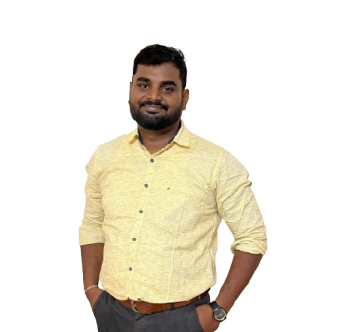
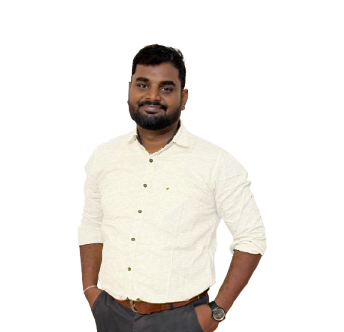
changes for latest

diff --git a/app/components/HeroSection.tsx b/app/components/HeroSection.tsx
@@ -1,62 +1,82 @@
 import Image from "next/image";
 import Button from "./Button";
+import Header from "./Header";
 function HeroSection() {
   return (
-    <div className="bg-linear-[310deg,var(--color-hero-from)_19%,var(--color-hero-to)_82%] dark:bg-none flex flex-col-reverse md:flex-row h-[var(--hero-section)] px-10 md:px-20 py-10 md:py-14 gap-10">
-      <div className="md:flex-1">
-        <div className="flex  flex-col justify-end h-full md:py-[55px] font-(family-name:--font-raleway) gap-1">
-          <h2 className="text-3xl font-semibold text-white">Hello, I&apos;m</h2>
-          <h1 className="text-4xl font-bold text-white ">
-            Vimal <span className="text-[var(--name-height-light)]">Raj V</span>{" "}
-          </h1>
-          <h6 className="text-base font-medium text-white  pb-[2px] ">
-            Front-End Developer specializing in React.js, Tailwind CSS & GitHub
-            Actions. Crafting seamless UI experiences with scalable solutions.
-          </h6>
-          <div className="flex flex-row gap-3 ">
-            <Button
-              isPrimary
-              className="max-w-[166px] w-full leading-tight"
-              iconName={"person.svg"}
-            >
-              About Me
-            </Button>
-            <Button
-              isOutLine
-              className="max-w-[166px] w-full leading-tight"
-              iconName={"Eye.svg"}
-            >
-              Projects
-            </Button>
-          </div>
-          <div className="flex px-[10px] pt-[10px] pb-[15px] gap-[25px]">
-            <Image src={"githu.svg"} alt="github" width="30" height={30} />{" "}
-            <Image
-              height={30}
-              src={"linkedin.svg"}
-              alt="linked in"
-              width="30"
-            />{" "}
-            <Image height={30} width="40" alt="mail" src={"mail.svg"} />
+    <div className="bg-linear-[310deg,var(--color-hero-from),var(--color-hero-to)] dark:bg-linear-[167deg,var(--color-hero-from),var(--color-hero-to)] ">
+      <Header />
+      <div className="flex flex-col-reverse md:flex-row h-screen px-10 md:px-20 py-10 md:py-14 gap-10">
+        <div className="md:flex-1">
+          <div className="flex  flex-col justify-end h-full md:py-[55px] font-(family-name:--font-raleway) gap-1">
+            <section className="flex items-center justify-center   px-6">
+              <div className="max-w-4xl text-center">
+                <h1 className="text-5xl font-extrabold leading-tight  text-gray-300   dark:bg-gradient-to-r dark:from-blue-500 dark:via-purple-500 dark:to-pink-500 dark:text-transparent bg-clip-text md:text-7xl fade-in ">
+                  &quot;Your biggest dreams start with the smallest steps.&quot;
+                </h1>
+                {/* <p className="mt-6 text-lg text-gray-600 md:text-xl">
+                  Believe, act, and make it happen.
+                </p> */}
+              </div>
+            </section>
+            <h2 className="text-3xl font-semibold text-white">
+              Hello, I&apos;m
+            </h2>
+            <h1 className="text-4xl font-bold text-white ">
+              Vimal{" "}
+              <span className="text-[var(--name-height-light)]">Raj V</span>{" "}
+            </h1>
+            <h6 className="text-base font-medium text-white  pb-[2px] ">
+              Front-End Developer specializing in React.js, Tailwind CSS &
+              GitHub Actions. Crafting seamless UI experiences with scalable
+              solutions.
+            </h6>
+
+            <div className="flex flex-row gap-3 ">
+              <Button
+                isPrimary
+                className="max-w-[166px] w-full leading-tight bg-linear-[350deg,var(--color-button-from),var(--color-button-to)]"
+                iconName={"person.svg"}
+              >
+                About Me
+              </Button>
+              <Button
+                isOutLine
+                className="max-w-[166px] w-full leading-tight"
+                iconName={"Eye.svg"}
+              >
+                Projects
+              </Button>
+            </div>
+
+            <div className="flex px-[10px] pt-[10px] pb-[15px] gap-[25px]">
+              <Image src={"githu.svg"} alt="github" width="30" height={30} />{" "}
+              <Image
+                height={30}
+                src={"linkedin.svg"}
+                alt="linked in"
+                width="30"
+              />{" "}
+              <Image height={30} width="40" alt="mail" src={"mail.svg"} />
+            </div>
           </div>
         </div>
-      </div>
-      <div className="md:flex-1 flex justify-center md:pb-[55px]">
-        <div className="flex width-80 height-full justify-center items-end relative">
-          <Image
-            className="w-full max-h-full"
-            src="circlebackground.svg"
-            alt=""
-            width={432}
-            height={490}
-          />
-          <Image
-            className="absolute max-h-full"
-            src="vimal.svg"
-            alt=""
-            width={494}
-            height={494}
-          />
+        <div className="md:flex-1 flex justify-center md:pb-[55px]">
+          <div className="flex width-80 height-full justify-center items-end relative">
+            <Image
+              className="w-full max-h-full rounded-full bg-[var(--circle-background)]"
+              src="circlebackground.svg"
+              alt=""
+              width={432}
+              height={490}
+            />
+            <Image
+              className="absolute max-h-full"
+              src="/vimal-update.png"
+              alt=""
+              width={494}
+              height={494}
+            />
+          </div>
         </div>
       </div>
     </div>

diff --git a/app/components/Header.tsx b/app/components/Header.tsx
@@ -2,24 +2,33 @@ import Link from "next/link";
 
 const Header = () => {
   return (
-    <header className="text-white py-4 px-6 sticky top-0 bg-linear-[310deg,[#45867e]_70%,[#e4e4e4]_12%] dark:bg-(--background) z-10">
+    <header className="text-white py-4 px-6 sticky top-0 bg-linear-[310deg,[#45867e]_70%,[#e4e4e4]_12%] dark:bg-(--header-background) z-10">
       <nav className="flex justify-between items-center">
         <h1 className="text-xl font-bold bg-gradient-to-r from-[#59A8A8] to-[#00FF51] bg-clip-text text-transparent font-[Satisfy] md:pl-13">
           Vimal Raj V
         </h1>
-        <ul className="flex space-x-6">
+        <ul className="flex space-x-6 flex-1 justify-center">
           <li>
-            <Link href="/" className="text-[var(--primary-2)]">
+            <Link
+              href="/"
+              className="bg-linear-[135deg,#9fb9ee,#e1e1e1] text-transparent bg-clip-text uppercase text-bold text-2xl"
+            >
               Home
             </Link>
           </li>
           <li>
-            <Link href="/about" className="text-[var(--primary-2)]">
+            <Link
+              href="/about"
+              className="bg-linear-[135deg,#9fb9ee,#e1e1e1] text-transparent bg-clip-text uppercase text-bold text-2xl"
+            >
               About
             </Link>
           </li>
           <li>
-            <Link href="/contact" className="text-[var(--primary-2)]">
+            <Link
+              href="/contact"
+              className="bg-linear-[135deg,#9fb9ee,#e1e1e1] text-transparent bg-clip-text uppercase text-bold text-2xl"
+            >
               contact
             </Link>
           </li>

diff --git a/app/globals.css b/app/globals.css
@@ -28,7 +28,7 @@
   --font-sans: var(--font-geist-sans);
   --font-mono: var(--font-geist-mono);
   --hero-section: calc(100vh - 56px); 
-}
+} 
 
 @media (prefers-color-scheme: dark) {
   :root {
@@ -41,10 +41,25 @@
   --hero-background:#121212; 
   --name-height-light: var(--primary-2);
   --input-background:#757575;
+
+  --color-hero-from:#05202e;
+  --color-hero-to: #000000;
+  --header-background:#071a27;
+  --circle-background:#8e3cec1a;
+  --color-button-from:#55a6a6;
+  --color-button-to:#8192a9;
 }
 }
 
 body {
   background: var(--background);
   color: var(--foreground);
+}
+@keyframes fadeIn {
+  from { opacity: 0; }
+  to { opacity: 1; }
+}
+
+.fade-in {
+  animation: fadeIn 1s ease-in-out;
 }

diff --git a/app/layout.tsx b/app/layout.tsx
@@ -1,7 +1,6 @@
 import type { Metadata } from "next";
 import { Geist, Geist_Mono } from "next/font/google";
 import "./globals.css";
-import Header from "./components/Header";
 
 const geistSans = Geist({
   variable: "--font-geist-sans",
@@ -28,7 +27,6 @@ export default function RootLayout({
       <body
         className={`${geistSans.variable} ${geistMono.variable} antialiased`}
       >
-        <Header/>
         {children}
       </body>
     </html>

diff --git a/next.config.ts b/next.config.ts
@@ -2,7 +2,8 @@ import type { NextConfig } from "next";
 
 const nextConfig: NextConfig = {
   output: "export",
-  basePath:process.env.NODE_ENV === "production" ? "/..":""
+  basePath:process.env.NODE_ENV === "production" ? "/..":"",
+  images: { unoptimized: true } 
 };
 
 export default nextConfig;
